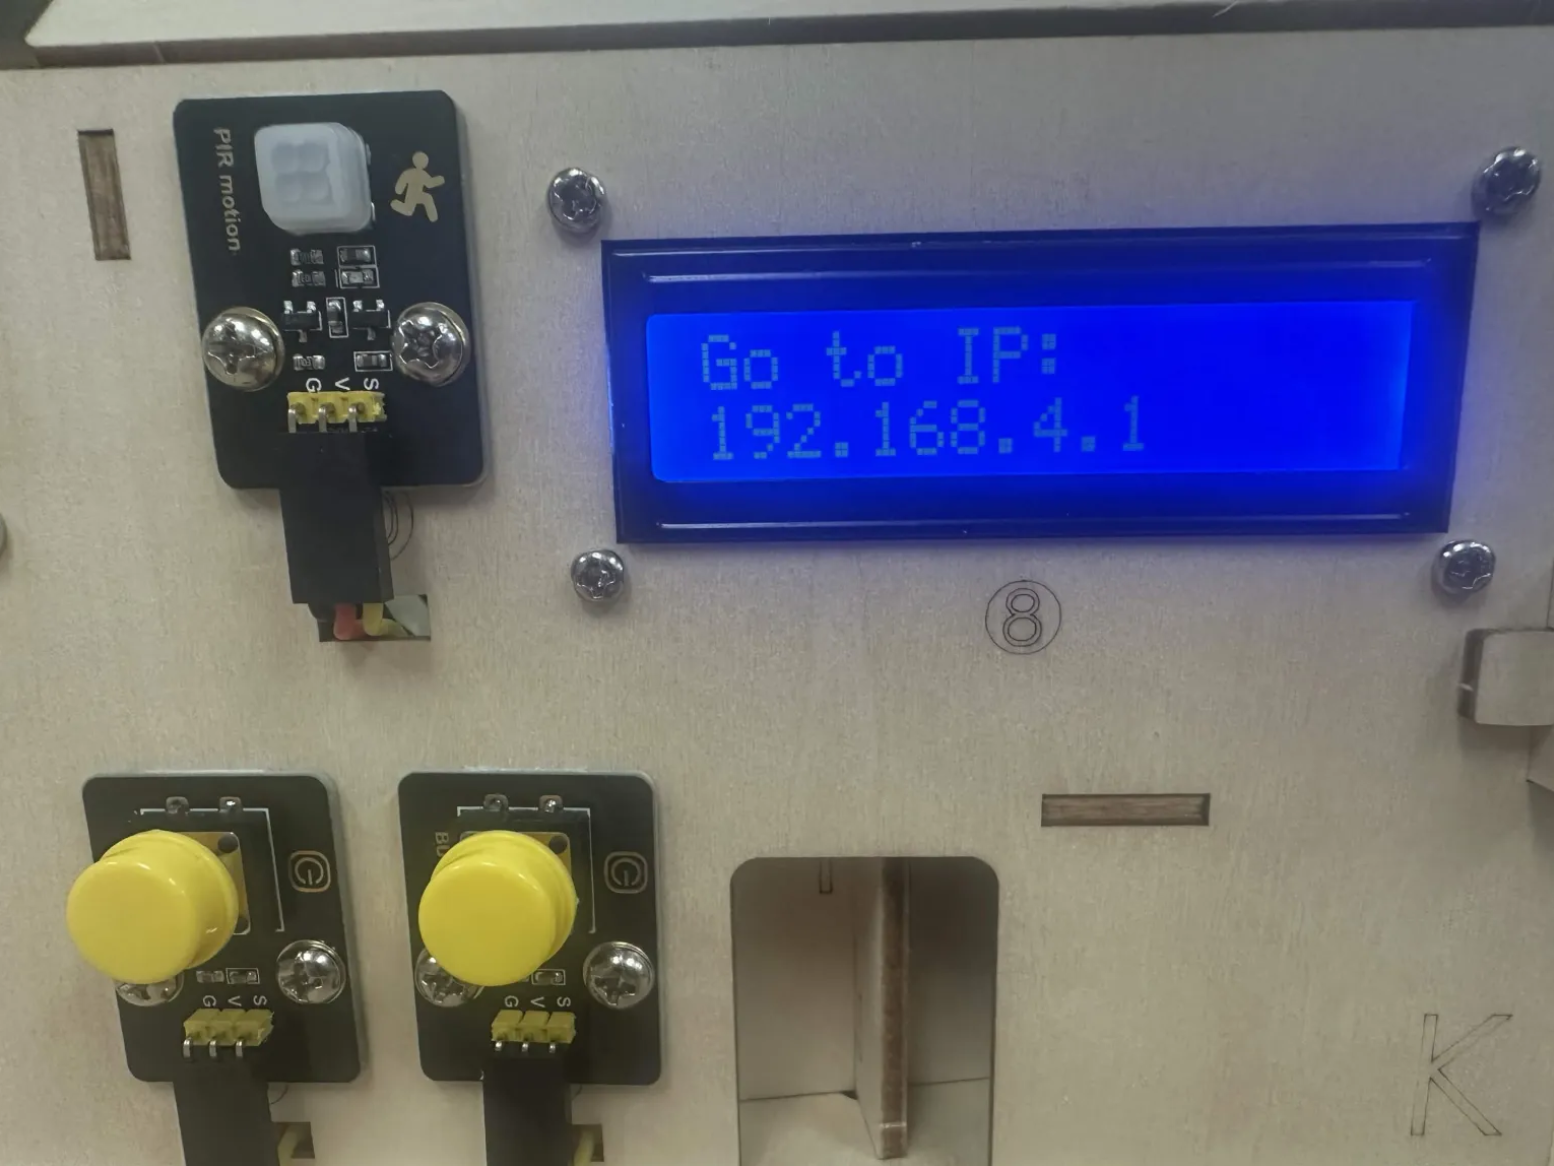
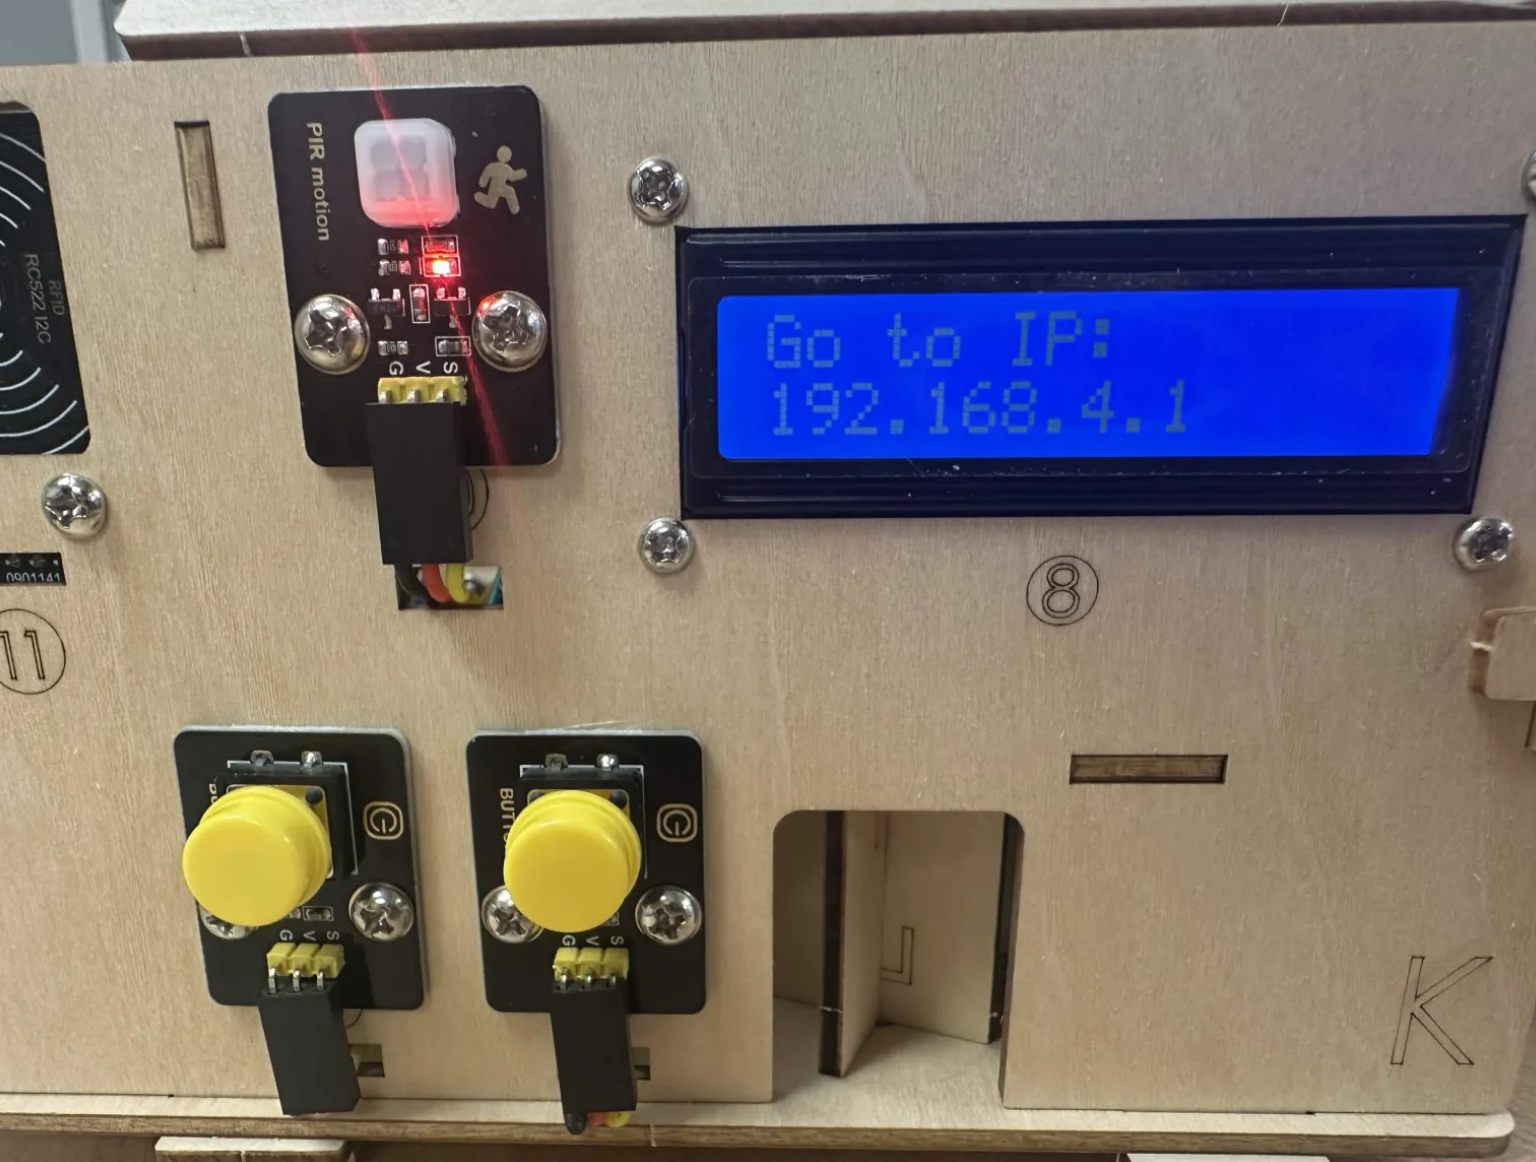
Implemented approved changes

diff --git a/04_setup_raspberry_pi.md b/04_setup_raspberry_pi.md
@@ -10,8 +10,8 @@
    After the Ignition SCADA software has started the Pi should have the following webpage open:
    ![ignition startup screen](./images/building/PICropped.png)
 
-2. **Connect** the demonstration PC to the Pi. You can use either the following methods to connect:
-   - **Ethernet cable** connected from PC to a small gray Wi-Fi router on the port labeled as WAN (actually configured as a second LAN port), providing a straightforward method to access the system. Ensure your Ethernet settings are configured to obtain an IP address automatically (refer to troubleshooting for assistance with this setting). If administrative privileges are not available, consider using the Wi-Fi connection instead.
+2. **Connect** the demonstration PC to the Pi. You can use either of the following methods to connect:
+   - **Ethernet cable** connected from PC to a small gray Wi-Fi router on the port labeled as WAN (actually configured as a second LAN port), providing a straightforward method to access the system. Ensure your Ethernet settings are configured to obtain an IP address automatically (refer to [troubleshooting](https://github.com/CCC-Industry4/StarterGuide/blob/2bf8fd24f25495de3f9bb1f01953807beb0b81df/08_troubleshooting.md) for assistance with this setting). If administrative privileges are not available, consider using the Wi-Fi connection instead.
    - **Wi-Fi** can be used on a PC or smartphone. The disadvantages of using Wi-Fi are that you will lose access to the internet. Connect to the following:
       - **SSID (service set identifier):** IT4Project
       - **Password:** IOT12345

diff --git a/07_operation_smart_home_neighborhood.md b/07_operation_smart_home_neighborhood.md
@@ -28,11 +28,5 @@
 7.  Use Ignition SCADA to control outputs: yellow LED, color LED and buzzer.
 8.  Now observe other homes in the neighborhood by switching the Smart Home number in the SCADA.  Try controlling the outputs of those homes.
 9.  To observe data published to cloud press the CLOUD button.  If other neighborhoods are sending data to the cloud you should be able to see those neighborhoods in the dropdown.
-10. In the top left corner of the Ignition SCADA screen, you'll find an icon with three bars. Click this icon to open the screen selection menu. Explore the menu to discover additional functions based on your connected devices, such as:
-    -  Tutorial: Provides guidance on getting started with the system.
-    -  SMART HOME: Allows interaction with Smart Homes on smaller displays.
-    -  OBJECT DETECTION: Displays the count of people when a camera is connected to the system.
-    -  CONVEYOR: Allows interaction with Smart Conveyors in the system.
-    -  BIG SCREEN: Displays a combination of all the screens listed above.
-11. When you are done exploring the system, demonstrate functions that you have learned to your instructor. 
+10. When you are done exploring the system, demonstrate functions that you have learned to your instructor. 
 
